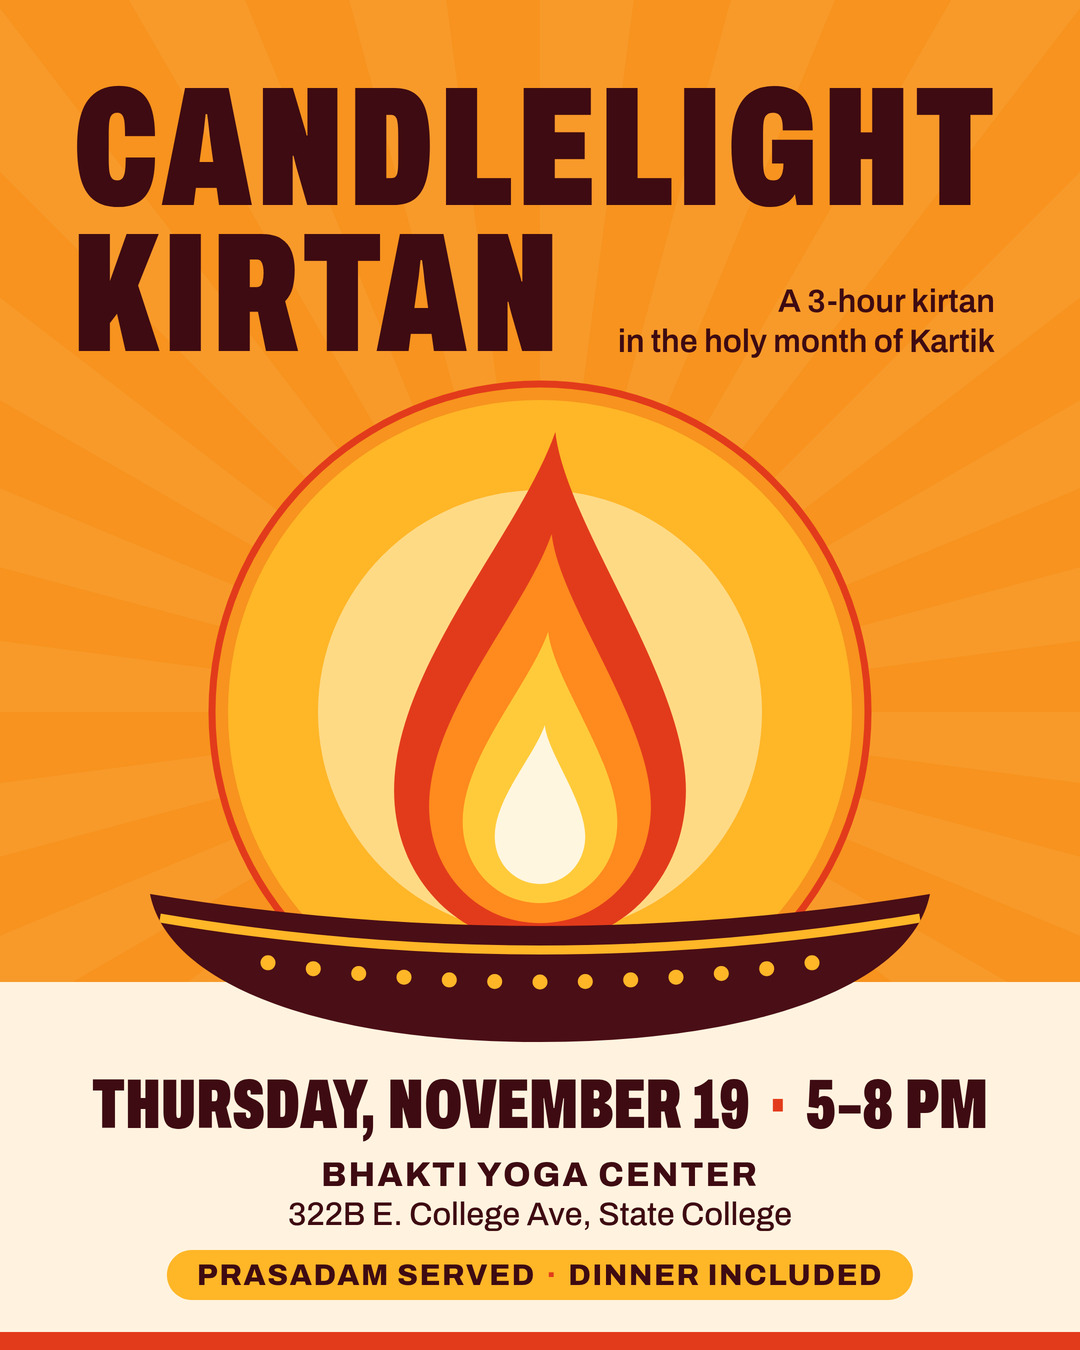
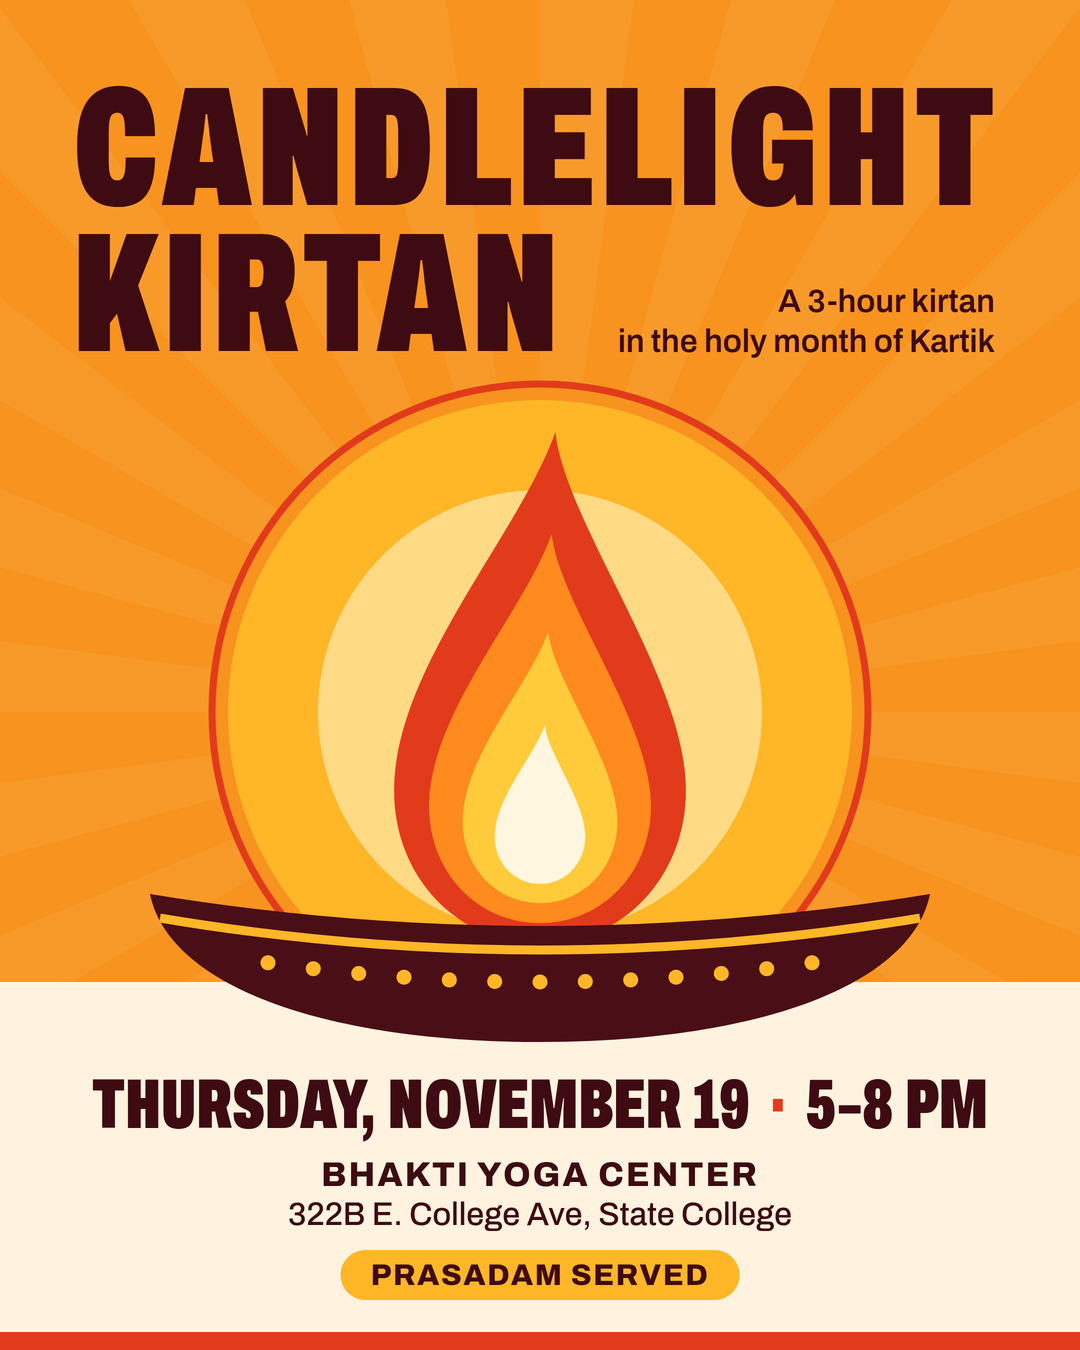
fix: drop "Dinner included" from all four options
The organizer's call: "Prasadam served" is enough. Images, JPGs, the
link preview, the page note and flyer-text.md all updated.

Claude-Session: https://claude.ai/code/session_01DfSoPwZjxR4RKrP86WpCmJ

Changed region(s): [[0.1528, 0.9022, 0.8556, 0.9644]]

diff --git a/index.html b/index.html
@@ -13,7 +13,7 @@
 <figure><img src="Flyer-Candlelight-Kirtan-C-Blue-Gold-feed-1080x1350.jpg" alt="Option C: royal blue flyer with a gold temple arch and a lamp on a lotus"><figcaption><b>C · Blue and Gold</b><br>Royal blue with a gold temple arch and a lamp resting on a lotus. <a href="Flyer-Candlelight-Kirtan-C-Blue-Gold-feed-1080x1350.png">PNG</a> · <a href="Flyer-Candlelight-Kirtan-C-Blue-Gold-feed-1080x1350.jpg">JPG</a></figcaption></figure>
 <figure><img src="Flyer-Candlelight-Kirtan-D-Studio-feed-1080x1350.jpg" alt="Option D: calm sand and blush flyer with a line drawing of a lamp, mridanga and kartals"><figcaption><b>D · Studio</b><br>Calm sand and blush, a line drawing of a lamp with a mridanga and kartals. <a href="Flyer-Candlelight-Kirtan-D-Studio-feed-1080x1350.png">PNG</a> · <a href="Flyer-Candlelight-Kirtan-D-Studio-feed-1080x1350.jpg">JPG</a></figcaption></figure></div>
 <h2>Good to know</h2><ul>
-<li>"Sanctified vegetarian food" and "All are welcome" are gone. The food line now reads "Prasadam served · Dinner included".</li>
+<li>"Sanctified vegetarian food", "Dinner included" and "All are welcome" are gone. The food line now reads just "Prasadam served".</li>
 <li>The Hare Krishna mantra from the first design can be added back to whichever you pick.</li>
 <li>Please confirm the address: <b>322B E. College Ave, State College</b>.</li></ul>
 <h2>Saving on a phone</h2><p>Tap PNG or JPG, then press and hold the image and save it. The JPG is smaller and posts fine; the PNG is the full-quality original.</p>

diff --git a/flyer-text.md b/flyer-text.md
@@ -9,7 +9,8 @@ Status key: ✅ requested · ⏳ to confirm · ➖ removed at the organizer's re
 - ✅ Thursday, November 19 · 5–8 PM
 - ✅ Bhakti Yoga Center
 - ⏳ 322B E. College Ave, State College (from public listings, not yet confirmed)
-- ✅ Prasadam served · Dinner included
+- ✅ Prasadam served
+- ➖ "Dinner included"
 - ➖ "sanctified vegetarian food"
 - ➖ "All are welcome"
 - ➖ The "Kartik" label above the title
@@ -22,4 +23,4 @@ A 3-hour kirtan in the holy month of Kartik
 Thursday, November 19 · 5–8 PM
 Bhakti Yoga Center
 322B E. College Ave, State College
-Prasadam served · Dinner included
+Prasadam served
